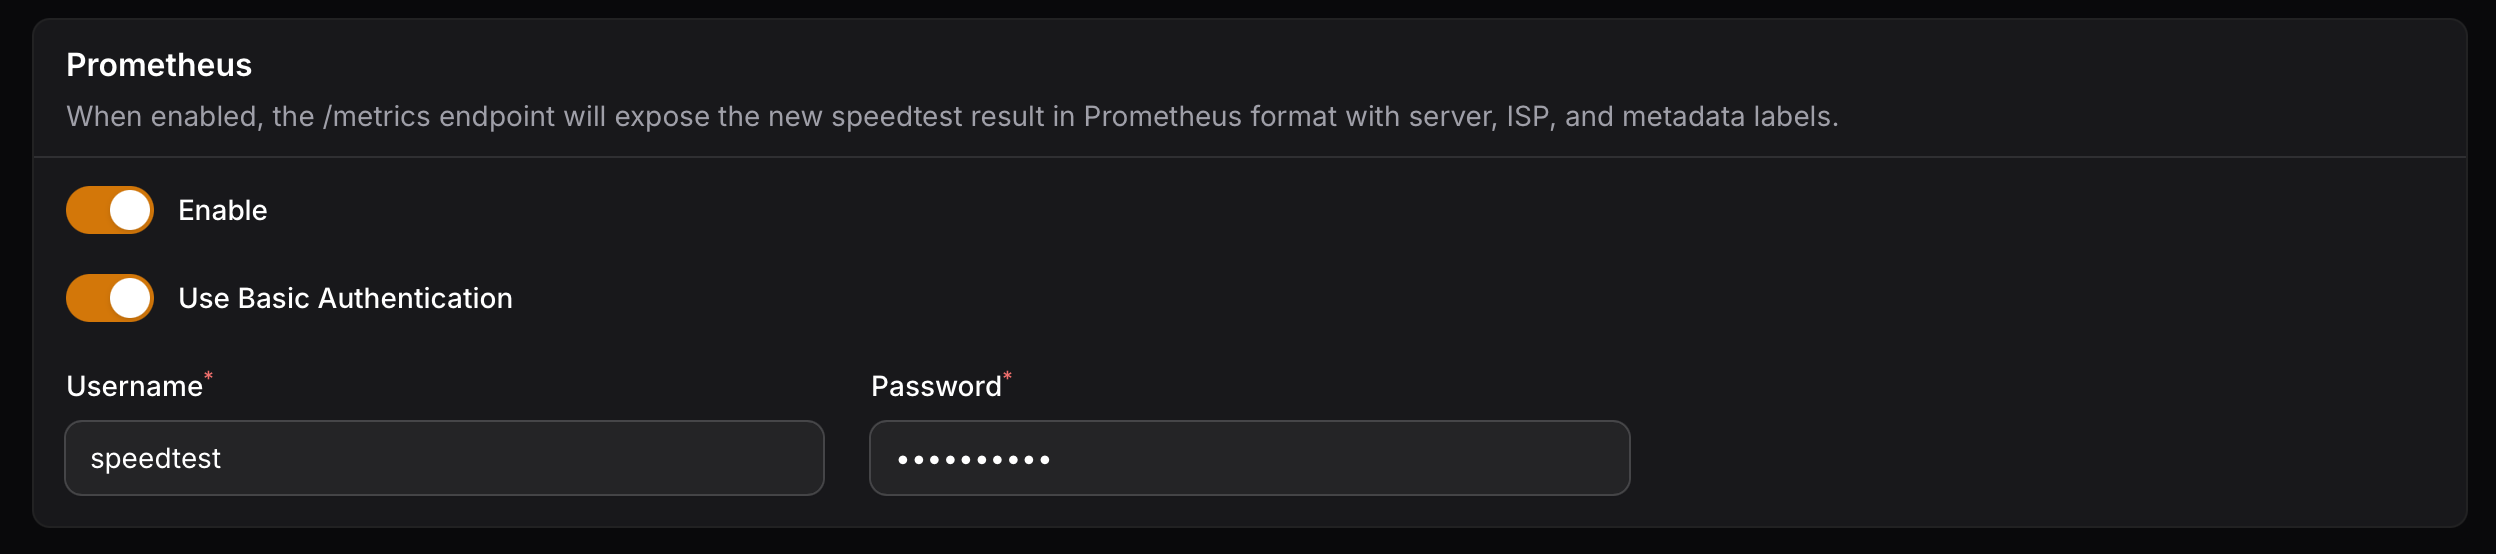
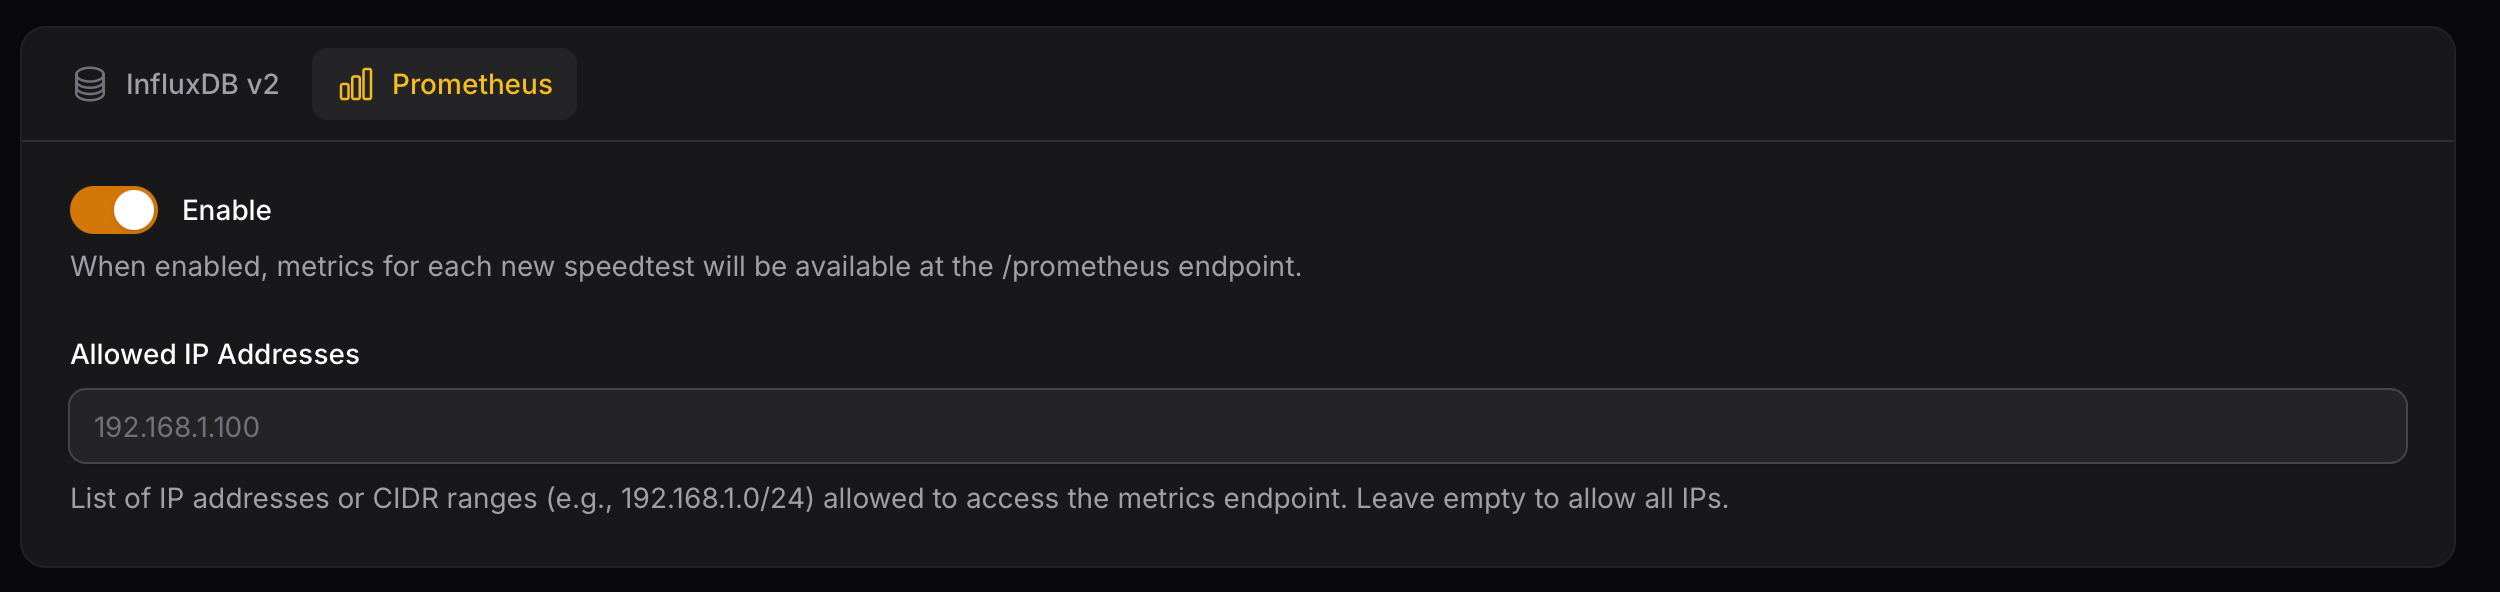
GitBook: No commit message

diff --git a/getting-started/installation/using-synology.md b/getting-started/installation/using-synology.md
@@ -18,25 +18,25 @@ This guide assumes you know how to use the old "Docker" application.
 
 {% stepper %}
 {% step %}
-### Download Image
+#### Download Image
 
 Open the Docker interface of your Synology Device, search for `linuxserver/speedtest-tracker` in the Registry and download it.
 {% endstep %}
 
 {% step %}
-### Create Directory
+#### Create Directory
 
 Create a local directory (i.e. `/volume1/docker/speedtest-tracker`) which later can be mapped to the docker container.
 {% endstep %}
 
 {% step %}
-### Start Image
+#### Start Image
 
 Launch the image once the download is completed.
 {% endstep %}
 
 {% step %}
-### Map Ports
+#### Map Ports
 
 Map the ports to available ports.
 
@@ -51,13 +51,13 @@ Make sure the ports you choose are not used by any other application or DSM serv
 {% endstep %}
 
 {% step %}
-### Map Directory
+#### Map Directory
 
 Map the directory you created earlier to the mount path `/config`.
 {% endstep %}
 
 {% step %}
-### Finish
+#### Finish
 
 Review your settings and click "done".
 

diff --git a/settings/data-platforms/prometheus.md b/settings/data-platforms/prometheus.md
@@ -2,11 +2,9 @@
 
 After each test, Speedtest Tracker exposes the metrics for Prometheus to scrape. For long term storage or custom visualizations.
 
-### Authentication
+### Allowed IPs
 
-To configure Speedtest Tracker to expose its metrics behind `basic auth`, apply the following settings
-
-<table><thead><tr><th width="127.33333333333331">Name</th><th width="206">Default</th><th>Description</th></tr></thead><tbody><tr><td>Use Basic Authentication</td><td>false</td><td>Enable / Disable <code>Basic Auth</code></td></tr><tr><td>username</td><td><code>blank</code></td><td>username for authentication </td></tr><tr><td>password</td><td><code>blank</code></td><td>password for authentication</td></tr></tbody></table>
+You can configure the Prometheus endpoint so it’s only accessible from specific IP addresses or networks. This can include single IPs or entire CIDR ranges.
 
 <figure><img src="../../.gitbook/assets/prometheus_settings.png" alt=""><figcaption></figcaption></figure>
 
